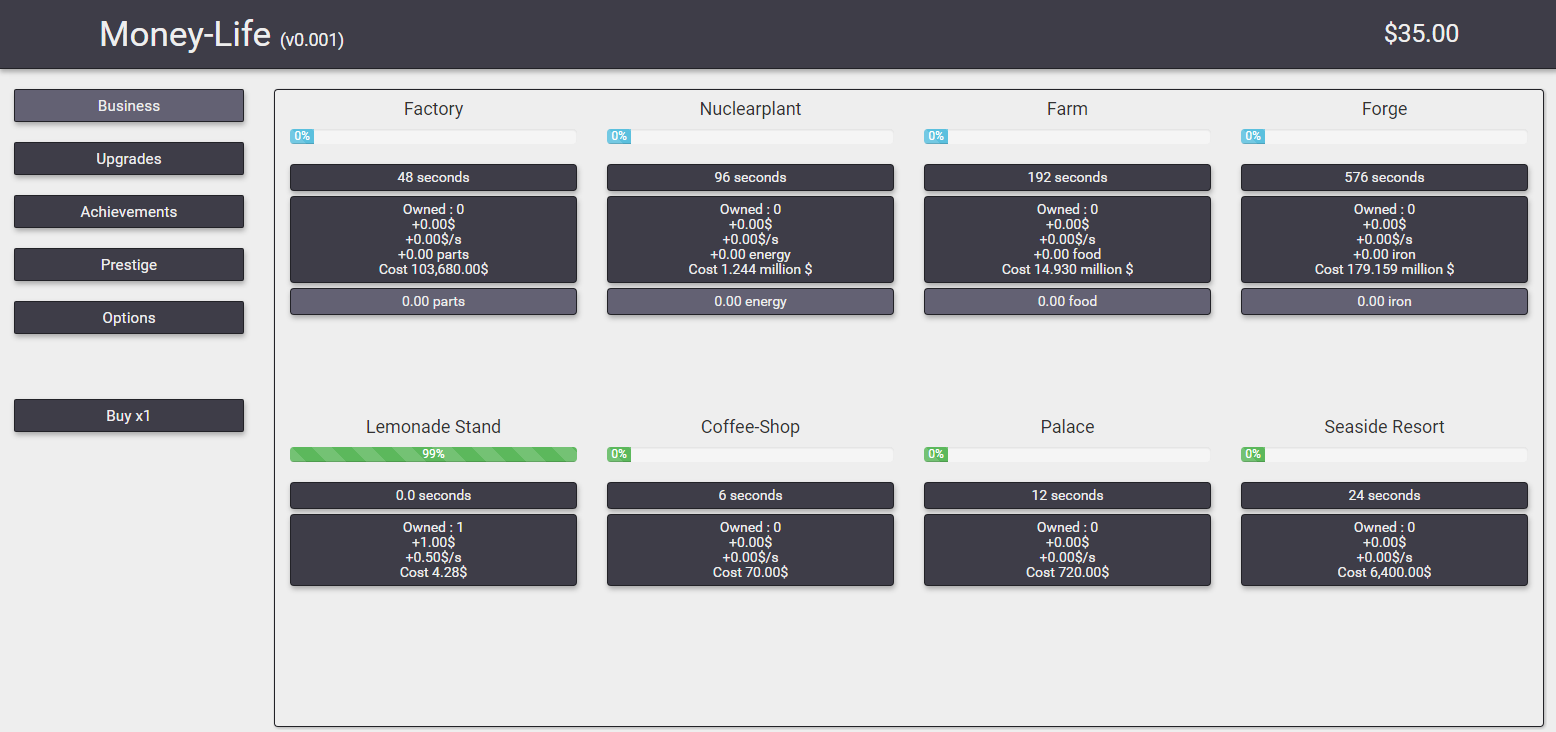
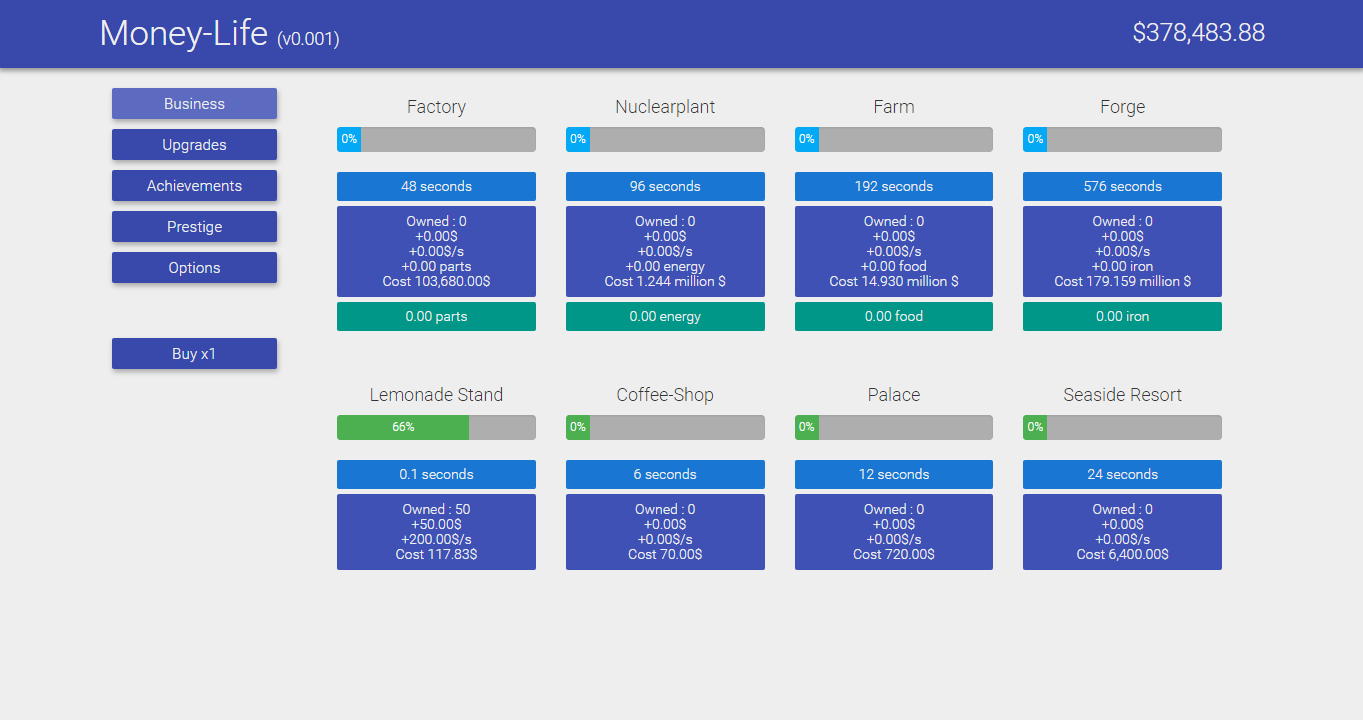
Moneylife - 0.002

diff --git a/moneylife/beta/index.html b/moneylife/beta/index.html
@@ -14,12 +14,12 @@
 <body class="noselect">
 	<header>
 		<div class="row">
-			<div class="col-md-6 col-header"><p id="nav-version" class="header-title"></p></div>
-			<div class="col-md-6 col-header"><p id="nav-money" class="header-stats"></p></div>
+			<div class="col-md-6"><p id="nav-version" class="header-title"></p></div>
+			<div class="col-md-6"><p id="nav-money" class="header-stats"></p></div>
 		</div>
 	</header>
 
-	<div class="game-container" style="display: none;">
+	<div class="container" style="display: block;">
 		<div class="row">
 			<div class="col-md-2">
 				<div class="row">
@@ -35,58 +35,57 @@
 			<div class="col-md-10">
 				<div class="tab-container">
 					<div id="tab-0" class="main-tab">
-						<div id="prod-builds" class="row tabs full">
+						<div class="col-md-12">
 							<div class="col-md-3">
 								<h4 id="bp-name-1" class="text-center"></h4>
-								<div class="progress"><div id="bp-progress-1" class="progress-bar progress-bar-info progress-bar-striped active" role="progressbar" style="min-width: 2em; width: 0%;">0%</div></div>
+								<div class="progress"><div id="bp-progress-1" class="progress-bar progress-bar-info noshadow notransition" role="progressbar" style="min-width: 2em; width: 0%;">0%</div></div>
 								<div class="prod-time"><h5 id="bp-time-1" class="text-center"></h5></div>
 								<div id="bp-buy-1" class="prod-stats"><h5 id="bp-infos-1" class="text-center"></h5></div>
 								<div class="prod-ressources"><h5 id="bp-ressource-1" class="text-center"></h5></div>
 							</div>
 							<div class="col-md-3">
 								<h4 id="bp-name-2" class="text-center"></h4>
-								<div class="progress"><div id="bp-progress-2" class="progress-bar progress-bar-info progress-bar-striped active" role="progressbar" style="min-width: 2em; width: 0%;">0%</div></div>
+								<div class="progress"><div id="bp-progress-2" class="progress-bar progress-bar-info noshadow notransition" role="progressbar" style="min-width: 2em; width: 0%;">0%</div></div>
 								<div class="prod-time"><h5 id="bp-time-2" class="text-center"></h5></div>
 								<div id="bp-buy-2" class="prod-stats"><h5 id="bp-infos-2" class="text-center"></h5></div>
 								<div class="prod-ressources"><h5 id="bp-ressource-2" class="text-center"></h5></div>
 							</div>
 							<div class="col-md-3">
 								<h4 id="bp-name-3" class="text-center"></h4>
-								<div class="progress"><div id="bp-progress-3" class="progress-bar progress-bar-info progress-bar-striped active" role="progressbar" style="min-width: 2em; width: 0%;">0%</div></div>
+								<div class="progress"><div id="bp-progress-3" class="progress-bar progress-bar-info noshadow notransition" role="progressbar" style="min-width: 2em; width: 0%;">0%</div></div>
 								<div class="prod-time"><h5 id="bp-time-3" class="text-center"></h5></div>
 								<div id="bp-buy-3" class="prod-stats"><h5 id="bp-infos-3" class="text-center"></h5></div>
 								<div class="prod-ressources"><h5 id="bp-ressource-3" class="text-center"></h5></div>
 							</div>
 							<div class="col-md-3">
 								<h4 id="bp-name-4" class="text-center"></h4>
-								<div class="progress"><div id="bp-progress-4" class="progress-bar progress-bar-info progress-bar-striped active" role="progressbar" style="min-width: 2em; width: 0%;">0%</div></div>
+								<div class="progress"><div id="bp-progress-4" class="progress-bar progress-bar-info noshadow notransition" role="progressbar" style="min-width: 2em; width: 0%;">0%</div></div>
 								<div class="prod-time"><h5 id="bp-time-4" class="text-center"></h5></div>
 								<div id="bp-buy-4" class="prod-stats"><h5 id="bp-infos-4" class="text-center"></h5></div>
 								<div class="prod-ressources"><h5 id="bp-ressource-4" class="text-center"></h5></div>
 							</div>
-						</div>
-						<div id="business-builds" class="row tabs full">
+							<div class="col-md-12"><div class="spacer"></div></div>
 							<div class="col-md-3">
 								<h4 id="bb-name-1" class="text-center"></h4>
-								<div class="progress"><div id="bb-progress-1" class="progress-bar progress-bar-success progress-bar-striped active" role="progressbar" style="min-width: 2em; width: 0%;">0%</div></div>
+								<div class="progress"><div id="bb-progress-1" class="progress-bar progress-bar-success noshadow notransition" role="progressbar" style="min-width: 2em; width: 0%;">0%</div></div>
 								<div class="business-time"><h5 id="bb-time-1" class="text-center"></h5></div>
 								<div id="bb-buy-1" class="business-stats"><h5 id="bb-infos-1" class="text-center"></h5></div>
 							</div>
 							<div class="col-md-3">
 								<h4 id="bb-name-2" class="text-center"></h4>
-								<div class="progress"><div id="bb-progress-2" class="progress-bar progress-bar-success progress-bar-striped active" role="progressbar" style="min-width: 2em; width: 0%;">0%</div></div>
+								<div class="progress"><div id="bb-progress-2" class="progress-bar progress-bar-success noshadow notransition" role="progressbar" style="min-width: 2em; width: 0%;">0%</div></div>
 								<div class="business-time"><h5 id="bb-time-2" class="text-center"></h5></div>
 								<div id="bb-buy-2" class="business-stats"><h5 id="bb-infos-2" class="text-center"></h5></div>
 							</div>
 							<div class="col-md-3">
 								<h4 id="bb-name-3" class="text-center"></h4>
-								<div class="progress"><div id="bb-progress-3" class="progress-bar progress-bar-success progress-bar-striped active" role="progressbar" style="min-width: 2em; width: 0%;">0%</div></div>
+								<div class="progress"><div id="bb-progress-3" class="progress-bar progress-bar-success noshadow notransition" role="progressbar" style="min-width: 2em; width: 0%;">0%</div></div>
 								<div class="business-time"><h5 id="bb-time-3" class="text-center"></h5></div>
 								<div id="bb-buy-3" class="business-stats"><h5 id="bb-infos-3" class="text-center"></h5></div>
 							</div>
 							<div class="col-md-3">
 								<h4 id="bb-name-4" class="text-center"></h4>
-								<div class="progress"><div id="bb-progress-4" class="progress-bar progress-bar-success progress-bar-striped active" role="progressbar" style="min-width: 2em; width: 0%;">0%</div></div>
+								<div class="progress"><div id="bb-progress-4" class="progress-bar progress-bar-success noshadow notransition" role="progressbar" style="min-width: 2em; width: 0%;">0%</div></div>
 								<div class="business-time"><h5 id="bb-time-4" class="text-center"></h5></div>
 								<div id="bb-buy-4" class="business-stats"><h5 id="bb-infos-4" class="text-center"></h5></div>
 							</div>
@@ -94,24 +93,21 @@
 					</div>
 					<div id="tab-1" class="main-tab" style="display: none;">
 						<div class="row tabs">
-							<div id="upgrades-business" class="col-md-6"><h4 class="text-center">Business builds upgrades</h4></div>
+							<div id="upgrades-business" class="col-md-4"></div>
 						</div>
 					</div>
 					<div id="tab-2" class="main-tab" style="display: none;">
 						<div class="row tabs">
-							<div id="achievements-business" class="col-md-6"><h4 class="text-center">Business builds achievements</h4></div>
+							<div id="achievements-business" class="col-md-4"></div>
 						</div>
 					</div>
-					<div id="tab-3" class="main-tab" style="display: none;"></div>
-					<div id="tab-4" class="main-tab" style="display: none;"></div>
+					<div id="tab-3" class="main-tab" style="display: none;">
+					</div>
+					<div id="tab-4" class="main-tab" style="display: none;">
+					</div>
 				</div>
 			</div>
 		</div>
-	</div>
-
-	<div class="loading-container">
-		<h1 class="text-center">Loading money-life<br>please wait...</i></h1>
-		<h1 class="text-center"><i class="fa fa-refresh fa-spin"></i></h1>
 	</div>
 
 	<script src="js/beautify.js"></script>

diff --git a/moneylife/beta/css/interface.css b/moneylife/beta/css/interface.css
@@ -1,62 +1,59 @@
 @font-face { font-family: "Roboto-Regular"; font-weight: 400; src: url('../fonts/Roboto-Regular.ttf'); }
 @font-face { font-family: "Roboto-Light"; font-weight: 300; src: url('../fonts/Roboto-Light.ttf'); }
 @font-face { font-family: "Roboto-Thin"; font-weight: 100; src: url('../fonts/Roboto-Thin.ttf'); }
-@media (min-width:768px) { .game-container { width: 750px; } }
-@media (min-width:992px) { .game-container { width: 970px; } }
-@media (min-width:1200px) { .game-container { width: 1170px; } }
-
 * { -webkit-font-smoothing: antialiased; text-shadow: none; text-rendering: optimizeLegibility; }
-body { margin: 0; padding: 0; cursor: default; font-family: "Roboto-Regular"; background: #eee; }
-header { margin-bottom: 20px; padding: 0 100px; top: 0; height: 70px; width: 100%; border-bottom: 1px solid #222227; background: #3e3d48;
-	color: #eee; box-shadow: 1px 3px 6px #aaa; }
+body { margin: 0; padding: 0; cursor: default; font-family: "Roboto-Light"; background: #eee; }
+header { margin-bottom: 20px; padding: 0 100px; height: 70px; width: 100%; background: #3949AB; color: #eee; box-shadow: 0px 3px 6px #999; }
 small { font-size: 50%; }
-ul { margin: 0; padding: 0; list-style: none; }
-ul>li { margin-right: 10px; float: left; padding: 10px 10px; }
-ul>li>a { transition: all .2s; display: block; color: #333; font-size: 1.3em; }
-ul>li>a:hover { transition: all .2s; text-decoration: none; color: #111; }
 
-.col-header { height: 70px; }
+::-webkit-scrollbar { width: 8px; }
+::-webkit-scrollbar-track { background-color: #fff; }
+::-webkit-scrollbar-thumb { background-color: #C8C8C8; }
+::-webkit-scrollbar-thumb:hover { background-color: #B0B0B0; }
+
+/* header */
 .header-title { margin: 0; font-size: 2.5em; line-height: 70px; }
 .header-stats { margin: 0; font-size: 1.75em; line-height: 70px; text-align: right; }
 
+/* base css */
 .game-container, .loading-container { padding-right: 5px; padding-left: 5px; margin-right: auto; margin-left: auto; }
-.tab-container { border: 1px solid #222227; border-radius: 4px; box-shadow: 1px 1px 4px #aaa; }
-.main-tab { width: 100%; height: 100%; background: inherit; }
-
-.main-btn { transition: all .2s; padding: 5px 0px; margin-bottom: 20px; border: 1px solid #222227; border-radius: 2px; background: #3e3d48;
-	color: #eee; cursor: pointer; font-size: 1.1em; text-align: center; box-shadow: 1px 3px 6px #aaa; }
-.main-btn:hover { transition: all .2s; background: #636173; }
-.main-btn:active { transition: all .2s; box-shadow: 1px 1px 4px #aaa; }
-.main-btn.active { background: #636173; }
-
-.progress { height: 15px; }
-.progress-bar { line-height: 15px; transition: none; -webkit-transition: none; -o-transition: none;  }
-
+.main-tab { width: 100%; height: 100%; background: inherit; color: #eee; }
 .row.tabs { margin: 0; }
-.row.tabs.full { height: 50%; }
+.well { background: #fff; border: none; border-radius: 0; }
 
-.prod-time>h5, .business-time>h5 { margin-top: 5px; margin-bottom: 5px; }
-.prod-time, .business-time { transition: all .2s; margin-bottom: 5px; width: 100%; background: #3e3d48; border: 1px solid #222227;
-	border-radius: 4px; color: #eee; box-shadow: 1px 3px 6px #aaa; }
-.prod-time:hover, .business-time:hover { transition: all .2s; background: #636173; }
+/* buttons */
+.main-btn { transition: all .2s; padding: 5px 0px; margin-bottom: 10px; border-radius: 2px; background: #3949AB; color: #eee; cursor: pointer;
+	font-size: 1.1em; text-align: center; box-shadow: 1px 3px 6px #aaa; }
+.main-btn:hover { transition: all .2s; background: #5C6BC0; }
+.main-btn:active { transition: all .2s; box-shadow: 1px 1px 4px #aaa; background: #5C6BC0; }
+.main-btn.active { background: #5C6BC0; }
 
-.prod-stats>h5, .business-stats>h5 { margin-top: 5px; margin-bottom: 5px; }
+/* progress-bars */
+.progress { background-color: #AEAEAE; }
+.progress, .progress-bar { height: 25px; line-height: 25px; }
+.progress-bar.progress-bar-success { background-color: #4CAF50; }
+.progress-bar.progress-bar-info { background-color: #03A9F4; }
+
+/* builds */
+.main-tab>.col-md-12>.col-md-3 { color: #333; }
+.prod-time>h5, .business-time>h5, .prod-stats>h5, .business-stats>h5 { margin-top: 5px; margin-bottom: 5px; }
 .prod-stats { margin-bottom: 5px; }
-.prod-stats, .business-stats { transition: all .2s; width: 100%; background: #3e3d48; border: 1px solid #222227; border-radius: 4px;
-	color: #eee; box-shadow: 1px 3px 6px #aaa; cursor: pointer; }
-.prod-stats:hover, .business-stats:hover { transition: all .2s; background: #636173; }
+.prod-time, .business-time { transition: all .2s; padding: 2px 0; margin-bottom: 5px; width: 100%; background: #1976D2; border-radius: 2px; color: #eee; }
+.prod-stats, .business-stats { transition: all .2s; width: 100%; padding-top: 3px; padding-bottom: 3px; background: #3F51B5; border-radius: 2px;
+	color: #eee; cursor: pointer; }
+.prod-stats:hover, .business-stats:hover { transition: all .2s; background: #5C6BC0; }
 .prod-stats:active, .business-stats:active { transition: all .2s; box-shadow: 1px 1px 4px #aaa; }
-
 .prod-ressources>h5 { margin-top: 5px; margin-bottom: 5px; }
-.prod-ressources { width: 100%; background: #636173; border: 1px solid #222227; border-radius: 4px;
-	color: #eee; box-shadow: 1px 3px 6px #aaa; }
+.prod-ressources { padding: 2px 0; width: 100%; background: #009688; border-radius: 2px; color: #eee; }
 
-.upgrade, .achievement { transition: all .2s; margin-bottom: 5px; width: 100%; background: #3e3d48; border: 1px solid #222227;
-	border-radius: 4px; color: #eee; box-shadow: 1px 3px 6px #aaa; cursor: pointer; }
-.upgrade:hover, .achievement:hover { transition: all .2s; background: #636173; }
-.upgrade:active, .achievement:active { transition: all .2s; box-shadow: 1px 1px 4px #aaa; }
-.upgrade.bought, .achievement.bought { background: #8F8D9B; }
+/* upgrades and achievements */
+.upgrade, .achievement { transition: all .2s; margin-bottom: 5px; width: 100%; background: #3F51B5; border-radius: 2px; cursor: pointer; }
+.upgrade:hover, .achievement:hover { transition: all .2s; background: #7986CB; }
+.upgrade:active, .achievement:active { transition: all .2s; }
+.upgrade.bought, .achievement.bought { background: #7986CB; }
 
-.noselect { -webkit-touch-callout: none; -webkit-user-select: none; -khtml-user-select: none; -moz-user-select: none;
-	-ms-user-select: none; user-select: none; }
+/* helpers */
+.noselect { -webkit-touch-callout: none; -webkit-user-select: none; -khtml-user-select: none; -moz-user-select: none; -ms-user-select: none; user-select: none; }
+.notransition { transition: none; -webkit-transition: none; -o-transition: none; }
+.noshadow { box-shadow: none; -webkit-box-shadow: none; }
 .spacer { height: 25px; margin-bottom: 20px; }

diff --git a/moneylife/beta/js/core.js b/moneylife/beta/js/core.js
@@ -12,31 +12,24 @@ c.buy = 1;
 c.before = new Date().getTime();
 c.now = new Date().getTime();
 c.init = false;
-c.version = 0.001;
+c.version = 0.002;
 c.fps = 60;
 c.interval = (1000/c.fps);
-c.wait = 0;
 
 core.init = function() {
-	// builds init
 	bb.init();
 	bp.init();
-	// achievements init
+
 	u.bb.init();
 	a.bb.init();
-	// display builds
+
 	bb.update();
 	bp.update();
-	// loading save
+
 	save.loadData();
-	// misc
+
 	$("#nav-version").html("Money-Life <small>(v" + c.version + ")</small>");
-	// interval with loading screen
-	window.setInterval(function() {
-		c.init = true;
-		$(".loading-container").css('display', 'none');
-		$(".game-container").css('display', 'block');
-	}, c.wait);
+	c.init = true;
 };
 core.display = function() {
 	$("#nav-money").html("$" + fix(c.money, 2));
